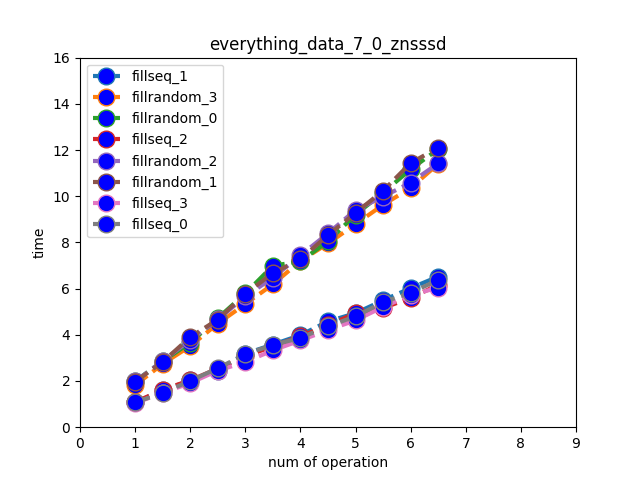
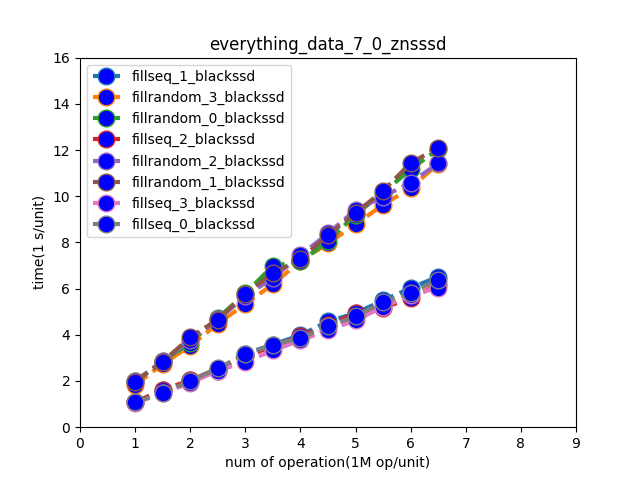
append combined graph

Changed region(s): [[0.2812, 0.125, 0.4688, 0.5], [0.3438, 0.9375, 0.6875, 1.0], [0.0312, 0.4062, 0.0938, 0.5938]]

diff --git a/drawer.py b/drawer.py
@@ -112,15 +112,13 @@ def handleData(dataPath, processedRes, drawFile):
                     costTime = filtRes[10]
                     ctp = str(file).split('_')[3]
                     print(op, ctp, nop, costTime)
-                    s = str(op+'_'+ctp)
-                    print(s)
-                    if op + '_' + ctp in drawer:
-                        print('hit')
-                        drawer[op+'_'+ctp][0].append(costTime)
-                        drawer[op+'_'+ctp][1].append(int(nop)/1000000)
+                    lineName = op + '_' + ctp
+                    if lineName in drawer:
+                        drawer[lineName][0].append(costTime)
+                        drawer[lineName][1].append(int(nop)/1000000)
                         
                     else:
-                        drawer[op+'_'+ctp] = [[costTime], [int(nop)/1000000]]
+                        drawer[lineName] = [[costTime], [int(nop)/1000000]]
                     
                 print(str(filtRes), file=f) 
 
@@ -136,9 +134,10 @@ if __name__ == '__main__':
     if not (os.path.exists(processedRes)):
         os.makedirs(processedRes)
     drawer = {}
+    
     handleData(dataPath, processedRes, drawFile)
     
-    print(drawer)
+    #print(drawer)
     
     for key in drawer:
         print(key)
@@ -147,19 +146,19 @@ if __name__ == '__main__':
         
         ybar = [ele for _,ele in sorted(zip(x,y))]
         xbar = sorted(x)
-        print('haha')
-        print(x)
-        print(y)
-        print(ybar)
-        print(xbar)
+        #print('haha')
+        #print(x)
+        #print(y)
+        #print(ybar)
+        #print(xbar)
         
         plt.plot(xbar, ybar, linestyle='dashed', linewidth=3, marker='o', markerfacecolor='blue', markersize=12, label=str(key))
     genFigName = 'everything_' + str(dirName)
     plt.title(genFigName)
     plt.axis([0,9,0,16])
     plt.legend()
-    plt.xlabel('num of operation')
-    plt.ylabel('time')
+    plt.xlabel('num of operation(1M op/unit)')
+    plt.ylabel('time(1 s/unit)')
     
     processedRes = str(os.getcwd()) + '/everyssdFig/'
     if not (os.path.exists(processedRes)):
